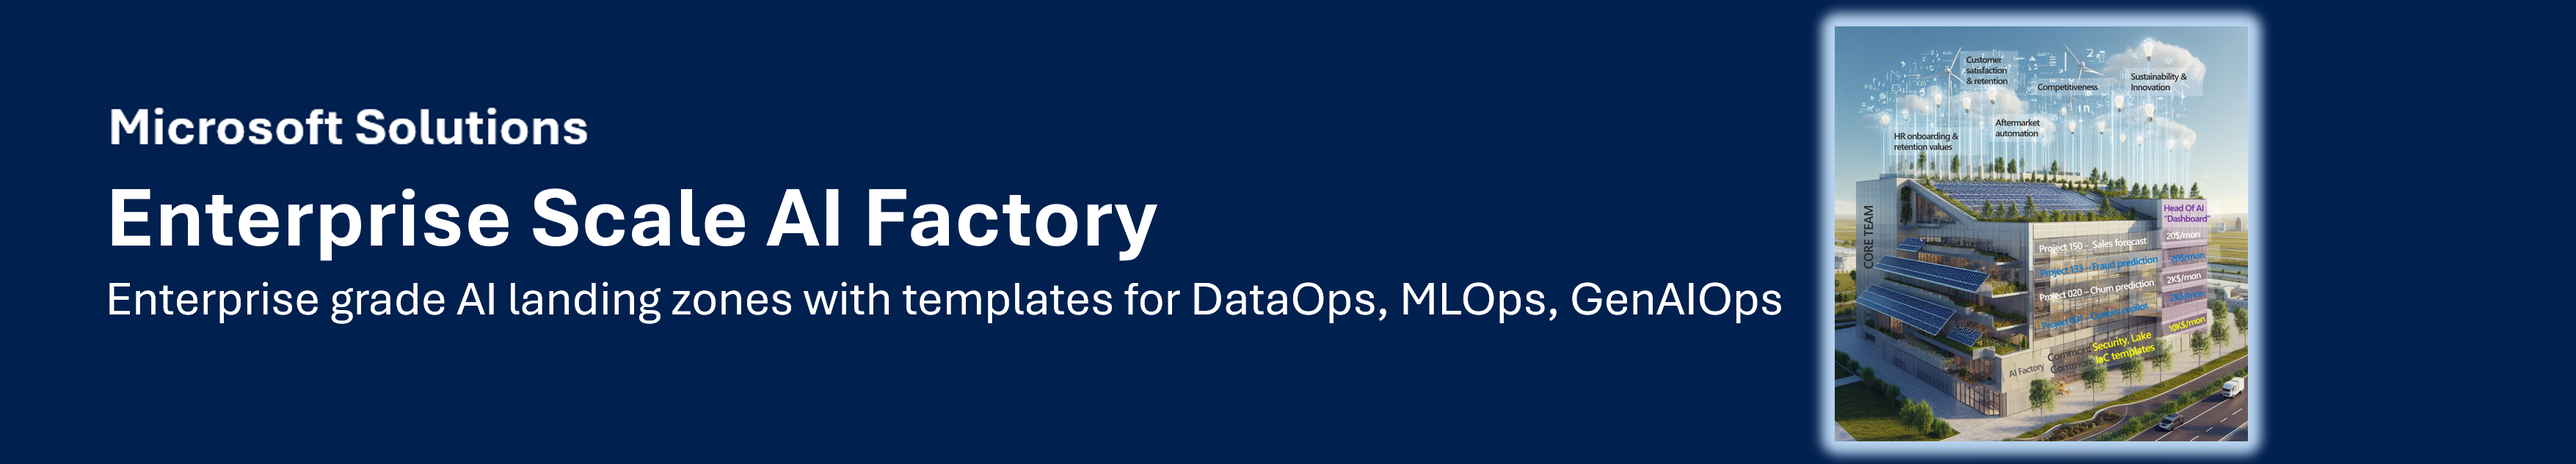
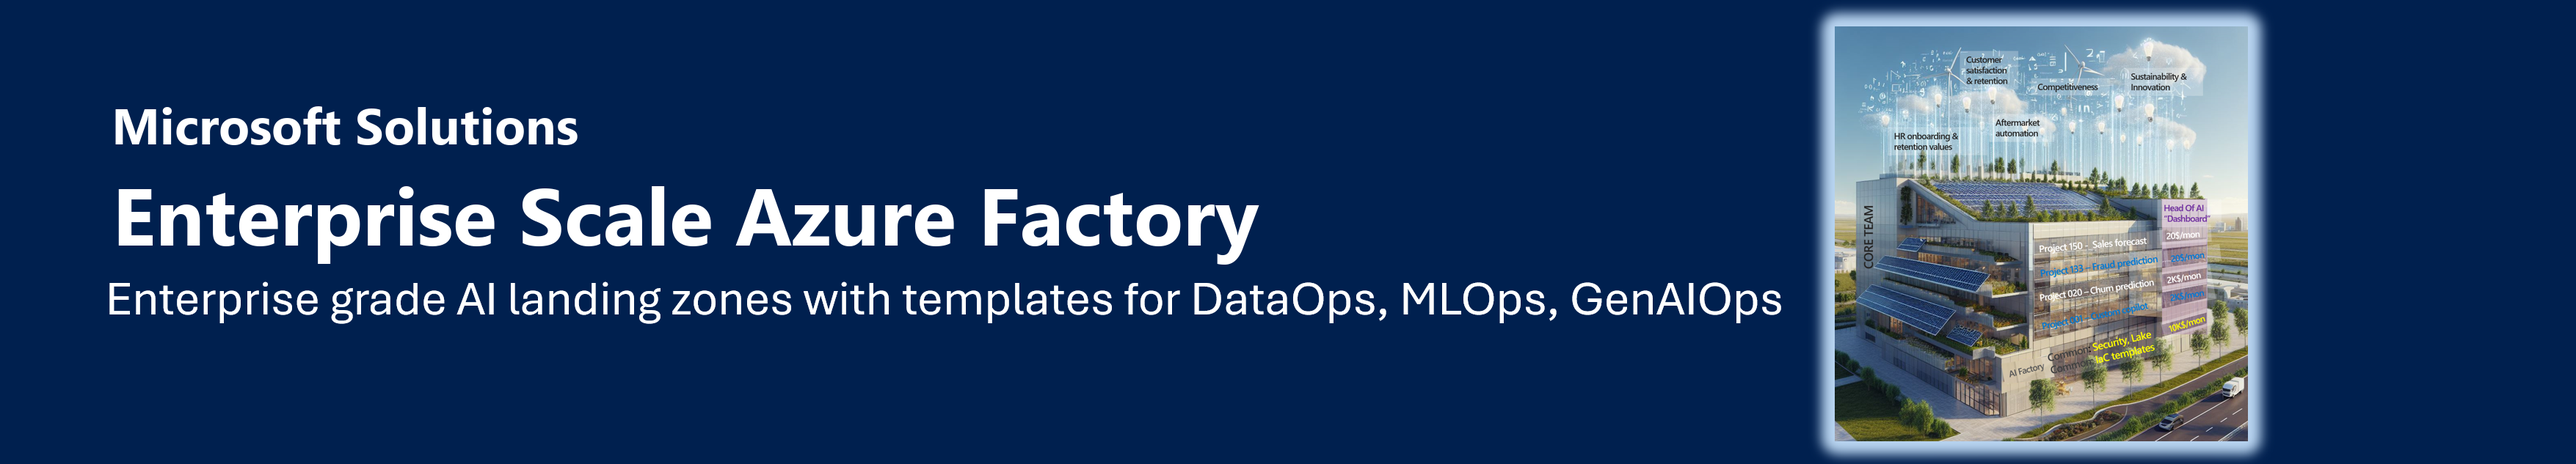
docs(site): name the site Enterprise Scale Azure Factory in the header
The header bar and the browser title said "Enterprise Scale AI Factory". The site name is now
"Enterprise Scale Azure Factory", and the banner on the home page shows the same name: its two
heading lines are redrawn in Segoe UI Bold on the same flat background, at the same cap height,
left edge and baseline. The subtitle and the picture of the banner are unchanged.

The copy of the banner that the repository README shows is not changed.

Changed region(s): [[0.0311, 0.3902, 0.4969, 0.5703], [0.0311, 0.2401, 0.2484, 0.3302]]

diff --git a/environment_setup/azurefactory-cli/tests/test_documentation_site.py b/environment_setup/azurefactory-cli/tests/test_documentation_site.py
@@ -133,6 +133,14 @@ def test_site_ships_the_images_the_pages_show(site):
     assert "assets/" in page(site, "setup/index.md") and "raw.githubusercontent.com" not in page(site, "setup/index.md")
 
 
+def test_site_header_carries_the_product_name(site):
+    _, config, _ = site
+    assert config.site_name == "Enterprise Scale Azure Factory"
+    home = (SITE / "docs" / "index.md").read_text(encoding="utf-8")
+    assert "![Enterprise Scale Azure Factory](assets/images/header.png)" in home
+    assert "Enterprise Scale AI Factory" not in home
+
+
 def test_site_renders_mermaid_diagrams(site):
     _, config, _ = site
     fences = config.mdx_configs.get("pymdownx.superfences", {}).get("custom_fences", [])

diff --git a/documentation/gh-io/docs/index.md b/documentation/gh-io/docs/index.md
@@ -1,6 +1,6 @@
 # Enterprise Scale Azure Factory (ESAF)
 
-![Enterprise Scale AI Factory](assets/images/header.png)
+![Enterprise Scale Azure Factory](assets/images/header.png)
 
 Go from an empty Azure subscription to a governed AI Factory, then build agents and ML models in it.
 
